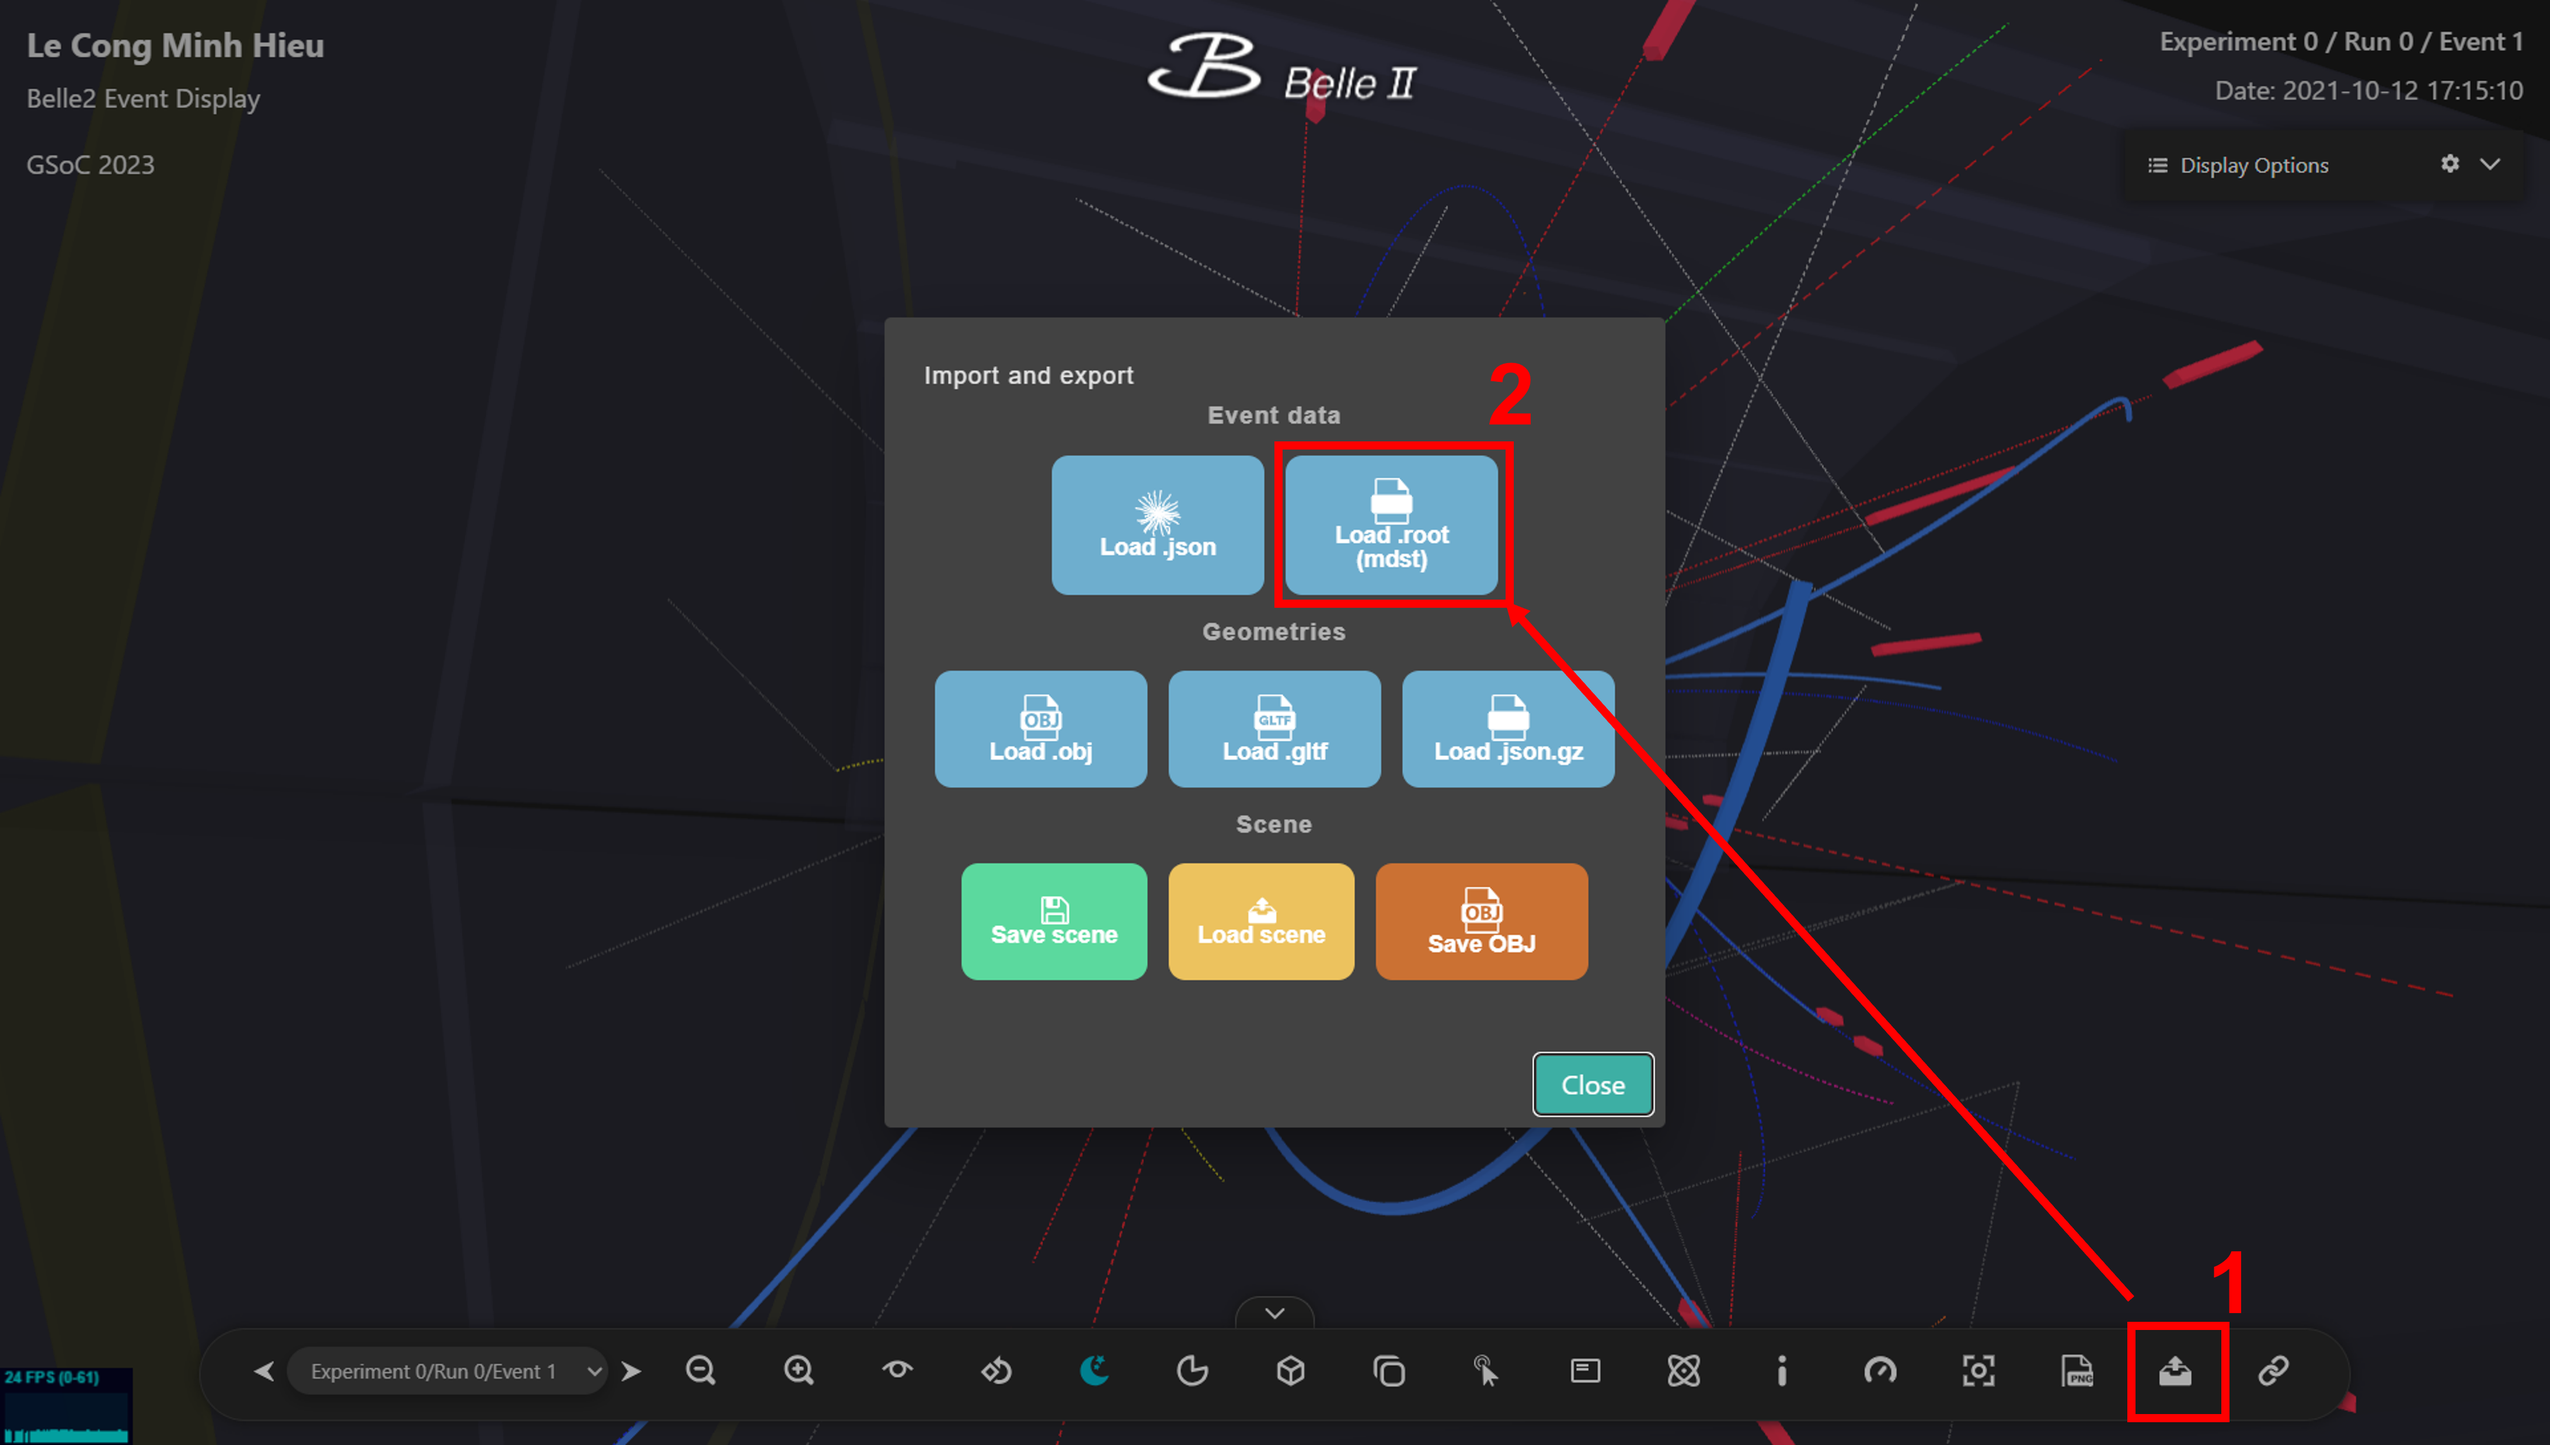
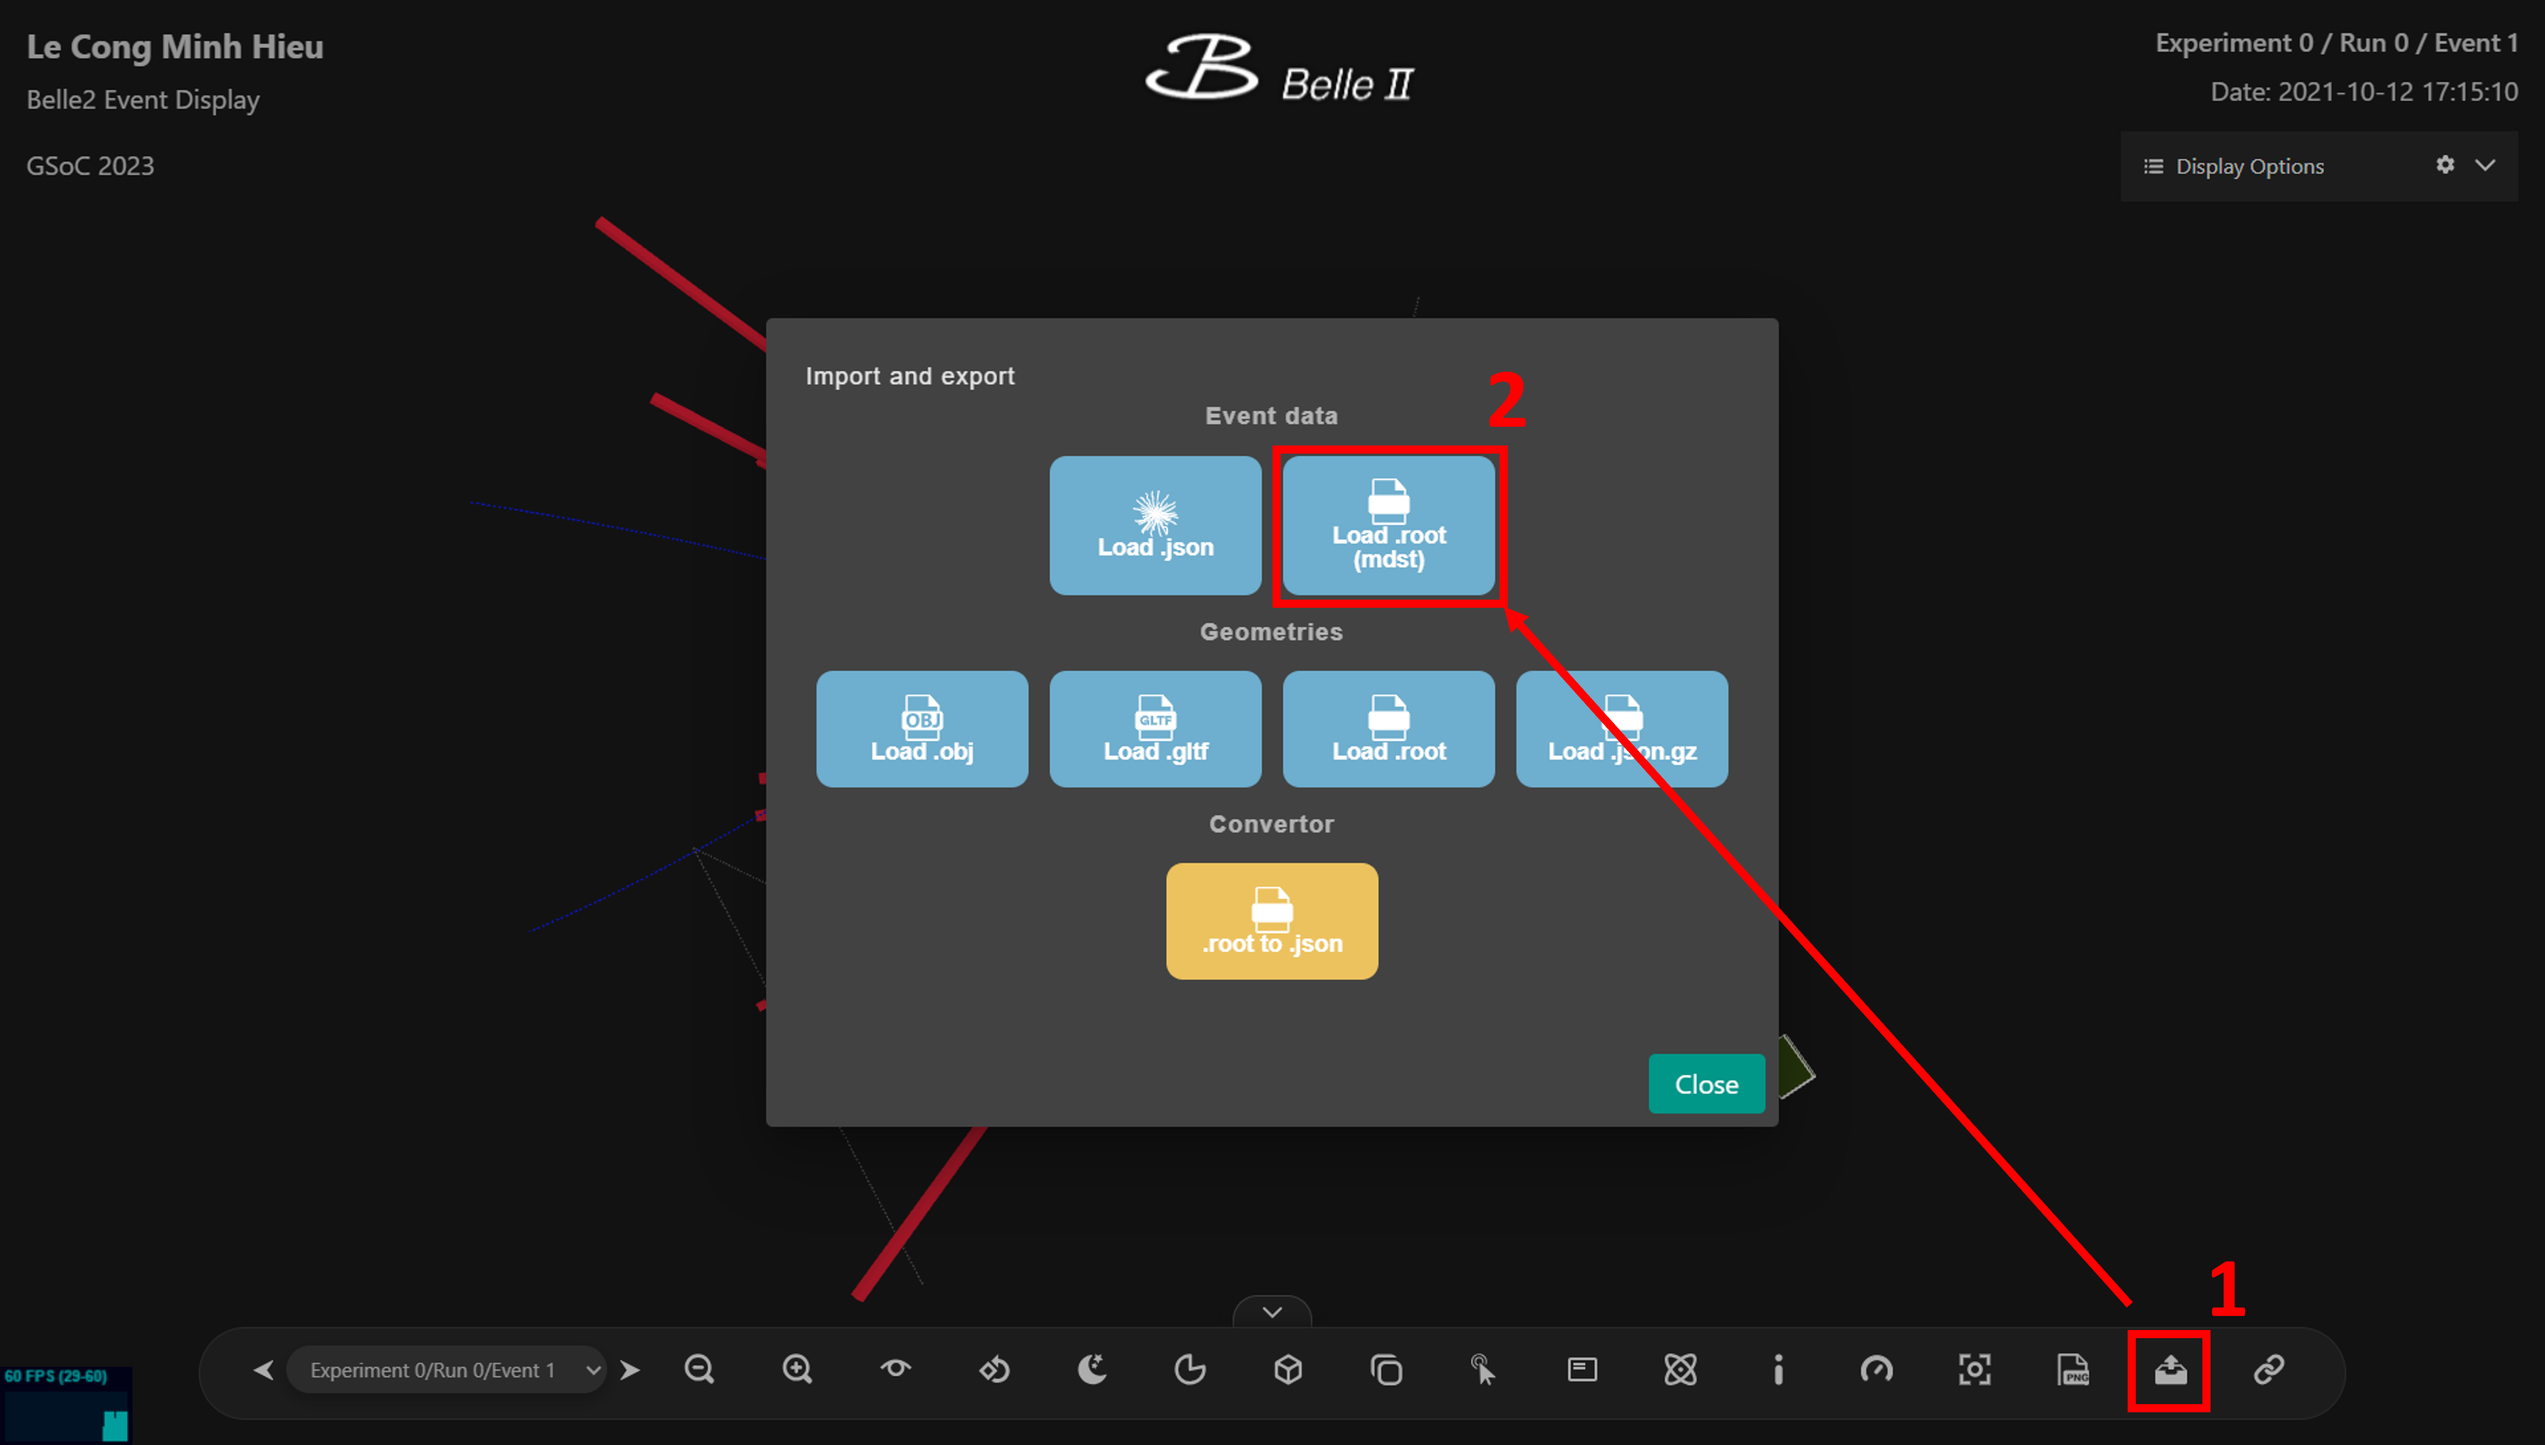
add json convertor

diff --git a/src/app/customized-components/io-event/io-dialog/io-dialog.component.html b/src/app/customized-components/io-event/io-dialog/io-dialog.component.html
@@ -77,17 +77,17 @@
                 <img src="assets/icons/gltf.svg" alt="" /> Load .gltf
             </button>
 
-            <!-- <input
-        #rootFileInput
-        type="file"
-        tabindex="-1"
-        class="file-input"
-        accept=".root"
-        (change)="handleROOTInput($event.target.files)"
-      />
-      <button class="file-input-button" (click)="rootFileInput.click()">
-        <img src="assets/icons/file-import.svg" alt="" /> Load .root
-      </button> -->
+            <input
+                #rootDetectorFileInput
+                type="file"
+                tabindex="-1"
+                class="file-input"
+                accept=".root"
+                (change)="handleROOTDetectorInput($event.target.files)"
+            />
+            <button class="file-input-button" (click)="rootDetectorFileInput.click()">
+                <img src="assets/icons/file-import.svg" alt="" /> Load .root
+            </button>
 
             <input
                 #rootJSONFileInput
@@ -105,7 +105,7 @@
             </button>
         </div>
 
-        <p class="text-center"><b>Scene</b></p>
+        <!-- <p class="text-center"><b>Scene</b></p>
 
         <div class="row centered">
             <button
@@ -140,7 +140,28 @@
             >
                 <img src="assets/icons/obj.svg" alt="" /> Save OBJ
             </button>
+        </div> -->
+        <p class="text-center"><b>Convertor</b></p>
+        <div class="row centered">
+
+            <input
+                #jsonConvertor
+                type="file"
+                tabindex="-1"
+                class="file-input"
+                accept=".root"
+                (change)="handleJSONConvertor($event.target.files)"
+            />
+            <button
+                class="file-input-button"
+                id="importScene"
+                (click)="jsonConvertor.click()"
+            >
+                <img src="assets/icons/file-import.svg" alt="" /> .root to .json
+            </button>
+
         </div>
+        
     </div>
 
     <div mat-dialog-actions align="end">

diff --git a/src/app/customized-components/io-event/io-dialog/io-dialog.component.ts b/src/app/customized-components/io-event/io-dialog/io-dialog.component.ts
@@ -14,6 +14,7 @@ import {
 } from 'phoenix-ui-components';
 import { Belle2Loader } from 'src/loaders/event-data-loaders';
 import { EventLoader } from 'src/app/event-display/event-loader';
+import * as saveAs from 'file-saver';
 
 @Component({
     selector: 'app-io-dialog',
@@ -124,6 +125,31 @@ export class IODialogComponent implements OnInit {
             const belle2Loader = new Belle2Loader();
             const data = belle2Loader.getAllEventData(fileData);
             this.eventDisplay.parsePhoenixEvents(data);
+        });
+
+        this.onClose();
+    }
+
+    async handleROOTDetectorInput(files: FileList) {
+        const rootObjectName = prompt('Enter object name in ROOT file');
+
+        await this.eventDisplay.loadRootGeometry(
+            URL.createObjectURL(files[0]),
+            rootObjectName,
+            files[0].name.split('.')[0]
+        );
+
+        this.onClose();
+    }
+
+    async handleJSONConvertor(files: FileList) {
+        const eventLoader = new EventLoader(URL.createObjectURL(files[0]));
+
+        eventLoader.getData('tree', (fileData: any) => {
+            const fileToSave = new Blob([JSON.stringify(fileData)], {
+                type: 'application/json'
+            });
+            saveAs(fileToSave, 'event.json');
         });
 
         this.onClose();

diff --git a/docs/source/conf.py b/docs/source/conf.py
@@ -28,8 +28,6 @@ extensions = [
 templates_path = ['_templates']
 exclude_patterns = []
 
-
-
 # -- Options for HTML output -------------------------------------------------
 # https://www.sphinx-doc.org/en/master/usage/configuration.html#options-for-html-output
 

diff --git a/docs/source/developer/installation.rst b/docs/source/developer/installation.rst
@@ -1,0 +1,32 @@
+Installation
+============
+
+For developers, to set up the local system, please follow the steps below.
+
+1. **Install Node.js** on your system. You can download the latest version of Node.js from the `official website`_.
+
+.. _official website: https://nodejs.org/en/download
+
+2. **Install Angular CLI** globally by running the following command:
+   
+   .. code-block:: console
+
+      $ npm install -g @angular/cli@15.2.7
+
+3. **Clone the git repository** by running the following command:
+   
+   .. code-block:: console
+
+      $ git clone git@github.com:belle2/display.git
+
+4. Change the current directory into the cloned folder.
+
+   .. code-block:: console
+
+      $ cd display
+
+5. Run ``npm install`` to install the necessary dependencies
+
+6. Run ``npm start`` or ``ng serve`` to start the development server.
+
+7. Navigate to ``http://localhost:4200/`` in your web browser to view the application.

diff --git a/docs/source/index.rst b/docs/source/index.rst
@@ -4,7 +4,7 @@
    contain the root `toctree` directive.
 
 Belle II Event Display
-===============================================================
+======================
 
 **Belle II Event Display with Phoenix** is a project conducted during the Google Summer of Code 2023, aimed at providing a web-based tool for event display. The project's main objective is to enhance the usability and accessibility of Belle II results by allowing users to upload the *mdst .root* file and display the events on their browser. Both user documentation and developer documentation are included on this page.
 

diff --git a/docs/source/developer.rst b/docs/source/developer.rst
@@ -1,2 +1,16 @@
 Developer Documentation
 =======================
+
+A deployed web application can be accessed through the `link`_.
+
+.. _link: https://belle2-gsoc-2023-hieu-gsoc-draft.netlify.app/
+
+For usage and manipulation, please check out the :doc:`user` section.
+
+.. toctree::
+   :maxdepth: 2
+   :caption: Contents:
+
+   ./developer/installation.rst
+   ./developer/phoenix.rst
+   ./developer/event_display.rst

diff --git a/docs/source/developer/event_display.rst b/docs/source/developer/event_display.rst
@@ -1,0 +1,4 @@
+Event Display
+=============
+
+Currently, the mdst data is stored in the .root file. To utilize the Phoenix framework and display the event on the browser, it is required to convert the .root file to .json file. To do that task, JSRoot is used.

diff --git a/docs/source/user/usage.rst b/docs/source/user/usage.rst
@@ -20,3 +20,4 @@ The **Event Display** is preferred for uploading and displaying events from .roo
 
    event_display
    detector
+   legend

diff --git a/docs/source/developer/phoenix.rst b/docs/source/developer/phoenix.rst
@@ -1,0 +1,4 @@
+Phoenix Framework
+=================
+
+

diff --git a/docs/source/user/legend.rst b/docs/source/user/legend.rst
@@ -1,0 +1,2 @@
+Event Legend
+============
